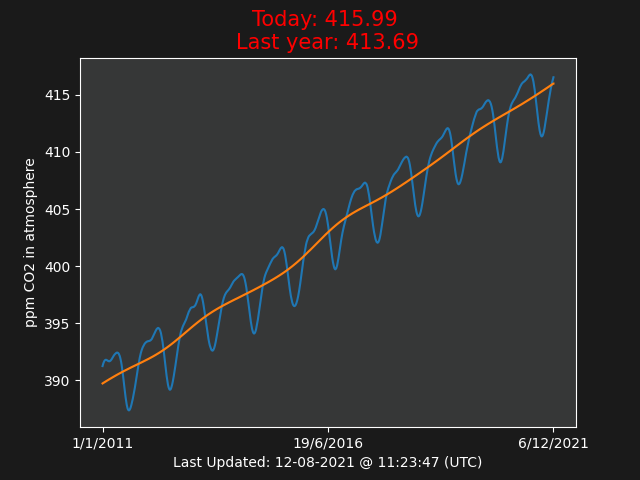
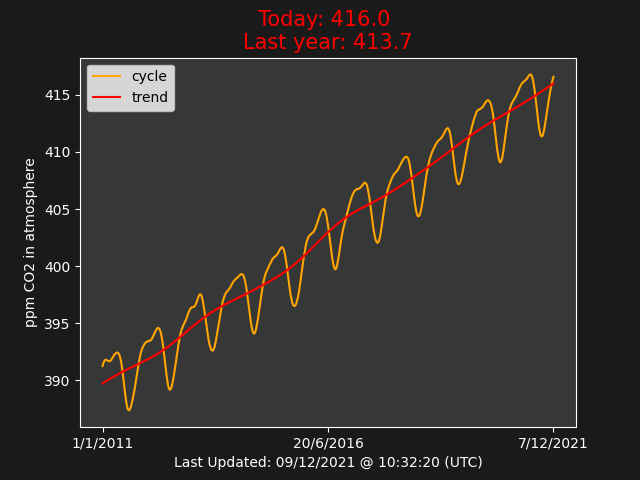
added legend

diff --git a/script.py b/script.py
@@ -49,7 +49,10 @@ def plot_data():
     ts,c,tr = zip(*data)
     
     fig, ax = plt.subplots()
-    ax.plot(ts,c,tr)
+    ax.plot(ts,c,label = 'cycle',color = 'orange')
+    ax.plot(ts,tr,label='trend',color = 'red')
+    ax.legend(loc='upper left')
+    
     ax.set_xticks([0,len(ts)/2,len(ts)-1]) 
     fig.patch.set_facecolor((0.1, 0.1, 0.1))
     ax.set_facecolor('xkcd:dark gray')
